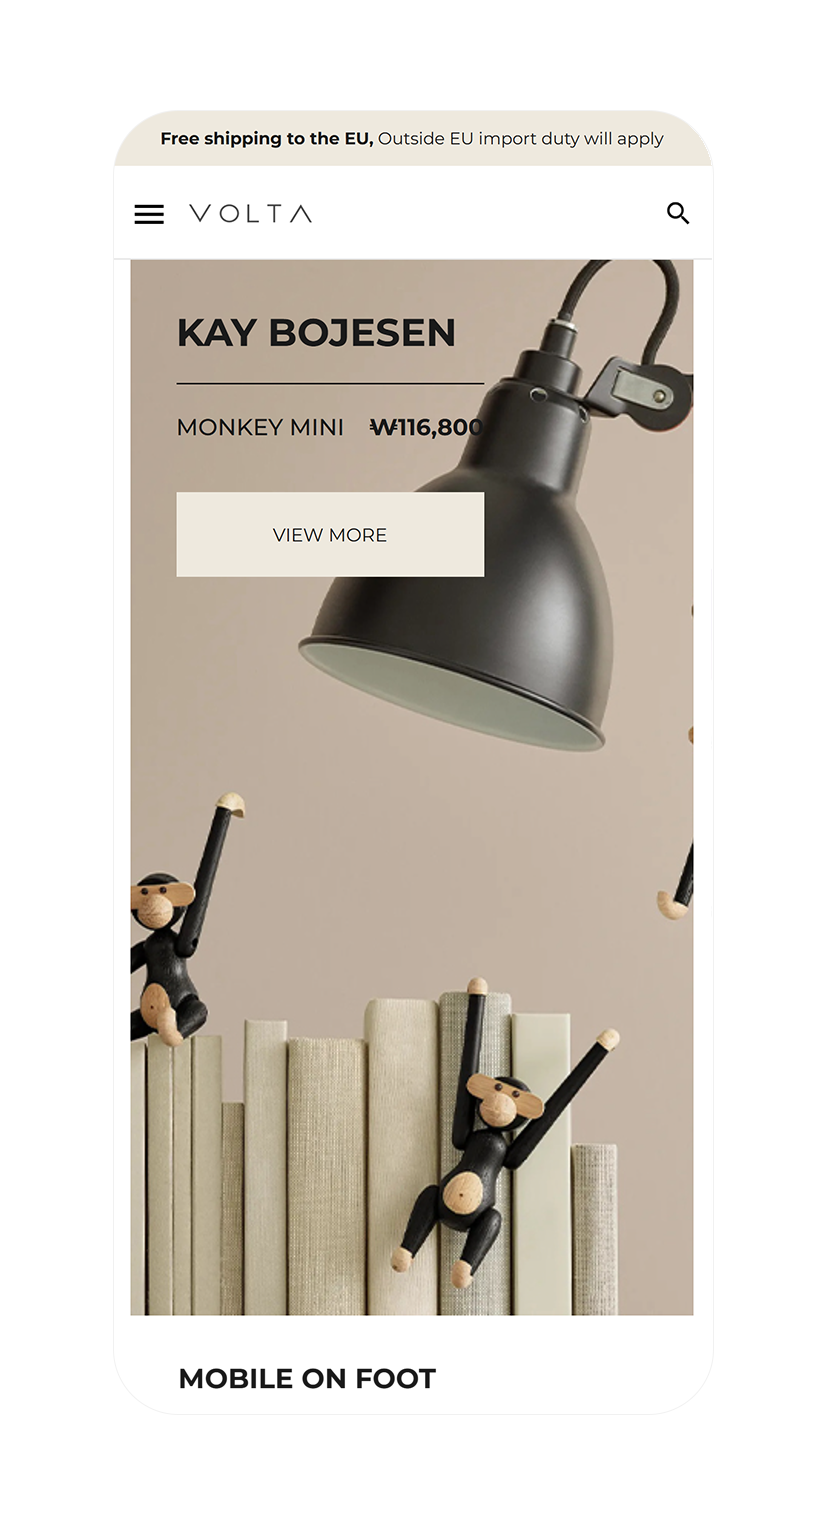
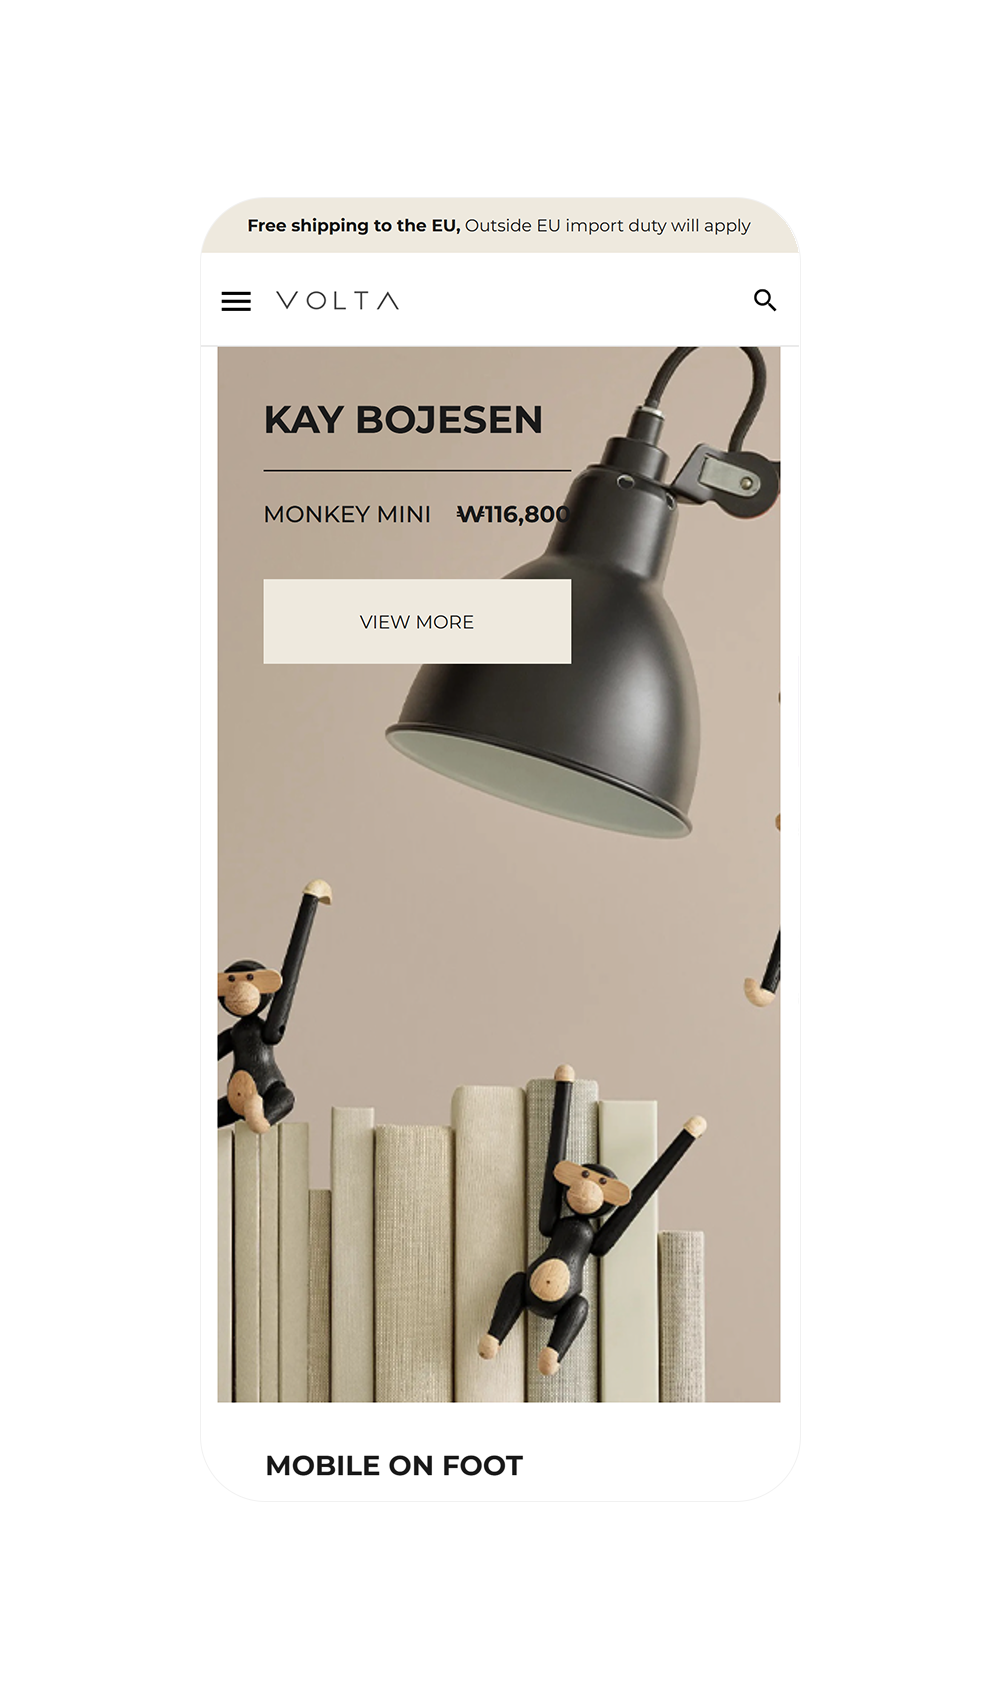
반응형작업

Changed region(s): [[0.1212, 0.0616, 0.8788, 0.924]]

diff --git a/css/pp.css b/css/pp.css
@@ -1,84 +1,53 @@
-/* 같은 스타일을 유지합니다 */
-.contentBox {
-  display: flex;
-  max-width: 800px;
-  margin: 0 auto;
-}
-
-.textF .move {
-  padding: 430px 30px 100px;
-  margin-bottom: 300px;
-}
-
-.textF h2 {
-  font-size: 20px;
-  font-weight: 400;
-}
-
-.imgF {
-  position: sticky;
-  align-self: flex-start;
-  left: 0;
-  background-image: url('../images/back_phone.png');
-  background-repeat: no-repeat;
-}
-
-.imgF img {
-  margin: 0 auto;
-  display: block;
-  cursor: pointer;
-}
-
-.fade-leave-active, .fade-leave-to {
-  animation-name: fadeA;
-  animation-duration: 0.25s;
-}
-
-@keyframes fadeA {
-  from {
-    opacity: 1;
-    transform: scale(1);
-  }
-  to {
-    opacity: 0.5;
-    transform: scale(0.98);
+@media screen and (max-width: 399px) {
+  .textF .move:nth-child(3){
+    margin-bottom: 65vh;
   }
 }
 
-.fade-enter-active, .fade-enter-to {
-  animation-name: fadeB;
-  animation-duration: 0.5s;
-}
-
-@keyframes fadeB {
-  from {
-    opacity: 0.5;
-    transform: scale(0.98);
-  }
-  to {
-    opacity: 1;
-    transform: scale(1);
+@media screen and (min-width: 400px) and (max-width: 999px) {
+  .textF .move:nth-child(3){
+    margin-bottom: 70vh;
   }
 }
 
-@media screen and (max-width: 767px) {
-  .contentBox {
-    gap: 0;
+@media screen and (max-width: 999px) {
+  .textF >ul{
+    padding: 0;
   }
-
-  .textF {
-    width: 0%;
-    opacity: 0;
+  
+  .textF .move {
+    padding: 0 0 10vh;
+    list-style: none;
+    text-align: center;
   }
-
+  
+  .textF h2 {
+    padding-top: 120px;
+    font-size: 20px;
+    font-weight: 400;
+  }
+  
   .imgF {
+    position: fixed;
+    top: 180px;
+    left: 50%;
+    transform: translateX(-50%);
     margin: 30px auto;
+    width: 100%;
     max-width: 400px;
+    background-image: url('../images/back_phone.png');
+    background-repeat: no-repeat;
     background-size: 100%;
-    background-position: center 44px;
-    top: 80px;
+    background-position: center top;
   }
-
+  
+  .imgF img {
+    margin: 0 auto;
+    display: block;
+    width: 100%;
+    max-width: 400px;
+  }
+  
   .imgF h2 {
     text-align: center;
     line-height: 30px;
@@ -86,32 +55,61 @@
     font-weight: 400;
   }
 
-  .imgF img {
-    width: 100%;
-    max-width: 400px;
+  .imgF #imageContainerP{
+    display: none;
   }
 }
 
-@media screen and (min-width: 768px) {
+
+@media screen and (min-width: 1000px) {
+  .contentBox {
+    display: flex;
+    max-width: 900px;
+    margin: 0 auto;
+  }
+  
+  .textF .move {
+    padding: 400px 0 100px;
+    margin-bottom: 300px;
+    list-style: none;
+  }
+
+  .textF .move:nth-child(3){
+    margin-bottom: 390px;
+  }
+  
+  .textF h2 {
+    font-size: 20px;
+    font-weight: 400;
+  }
+  
+  .imgF img {
+    margin: 0 auto;
+    display: block;
+  }
+  .imgF #imageContainerM{
+    display: none;
+  }
+  
   .textF {
-    width: 45%;
+    width: 30%;
   }
 
   .imgF {
-    width: 50%;
+    position: sticky;
+    align-self: flex-start;
+    top: calc(50vh - 260px);
+    left: 0;
+    width: 70%;
+    min-width: 610px;
     margin: 100px 0;
-    min-width: 400px;
-    background-size: 400px;
+    background-image: url('../images/back_pc.png');
+    background-repeat: no-repeat;
+    background-size: 610px;
     background-position: center 0px;
-    top: 150px;
-  }
-
-  .imgF h2,
-  .imgF h2+p {
-    display: none;
   }
 
   .imgF img {
-    width: 400px;
+    width: 610px;
   }
 }

diff --git a/js/pp.js b/js/pp.js
@@ -1,38 +1,42 @@
 const textList = document.querySelectorAll('.move');
 const currentContent = document.getElementById('currentContent');
-const mainImage = document.getElementById('mainImage');
+const mainImageM = document.getElementById('mainImageM');
+const mainImageP = document.getElementById('mainImageP');
 
-// Update image source
 function getImageSrc(step) {
-  mainImage.src = `images/back_${step}.png`
+  mainImageM.src = `images/back_${step}.png`
+  mainImageP.src = `images/back_pc_${step}.png`
 }
 
 function isElementInViewport(el) {
   const rect = el.getBoundingClientRect();
+  const viewportHeight = window.innerHeight || document.documentElement.clientHeight;
+
+
+  const offset = viewportHeight * 0.3;
+
   return (
     rect.top >= 0 &&
     rect.left >= 0 &&
-    rect.bottom <= (window.innerHeight || document.documentElement.clientHeight) &&
+    rect.bottom <= viewportHeight - offset &&
     rect.right <= (window.innerWidth || document.documentElement.clientWidth)
   );
 }
 
-let prevStep = 1; // 이전 step 값을 저장할 변수
-
+let prevStep = 1;
 function onScroll() {
   const elements = document.querySelectorAll('.move');
   elements.forEach((element) => {
     if (isElementInViewport(element)) {
       const currentStep = parseInt(element.id); 
 
-      if (currentStep !== prevStep) { // step 값이 변경되었을 때만 실행
+      if (currentStep !== prevStep) {
         getImageSrc(currentStep);
-        prevStep = currentStep; // 이전 step 값 업데이트
+        prevStep = currentStep;
       }
     }
   });
 }
 
-// 스크롤 이벤트 등록
 window.addEventListener('scroll', onScroll);
 

diff --git a/index.html b/index.html
@@ -26,12 +26,11 @@
         </ul>
       </div>
       <div class="imgF">
-        <div id="currentContent">
-          <h2></h2>
-          <p></p>
+        <div id="imageContainerM">
+          <img id="mainImageM" src="images/back_1.png" alt="browse-img">
         </div>
-        <div id="imageContainer">
-          <img id="mainImage" src="images/back_1.png" alt="browse-img">
+        <div id="imageContainerP">
+          <img id="mainImageP" src="images/back_pc_1.png" alt="browse-img">
         </div>
       </div>
     </div>
